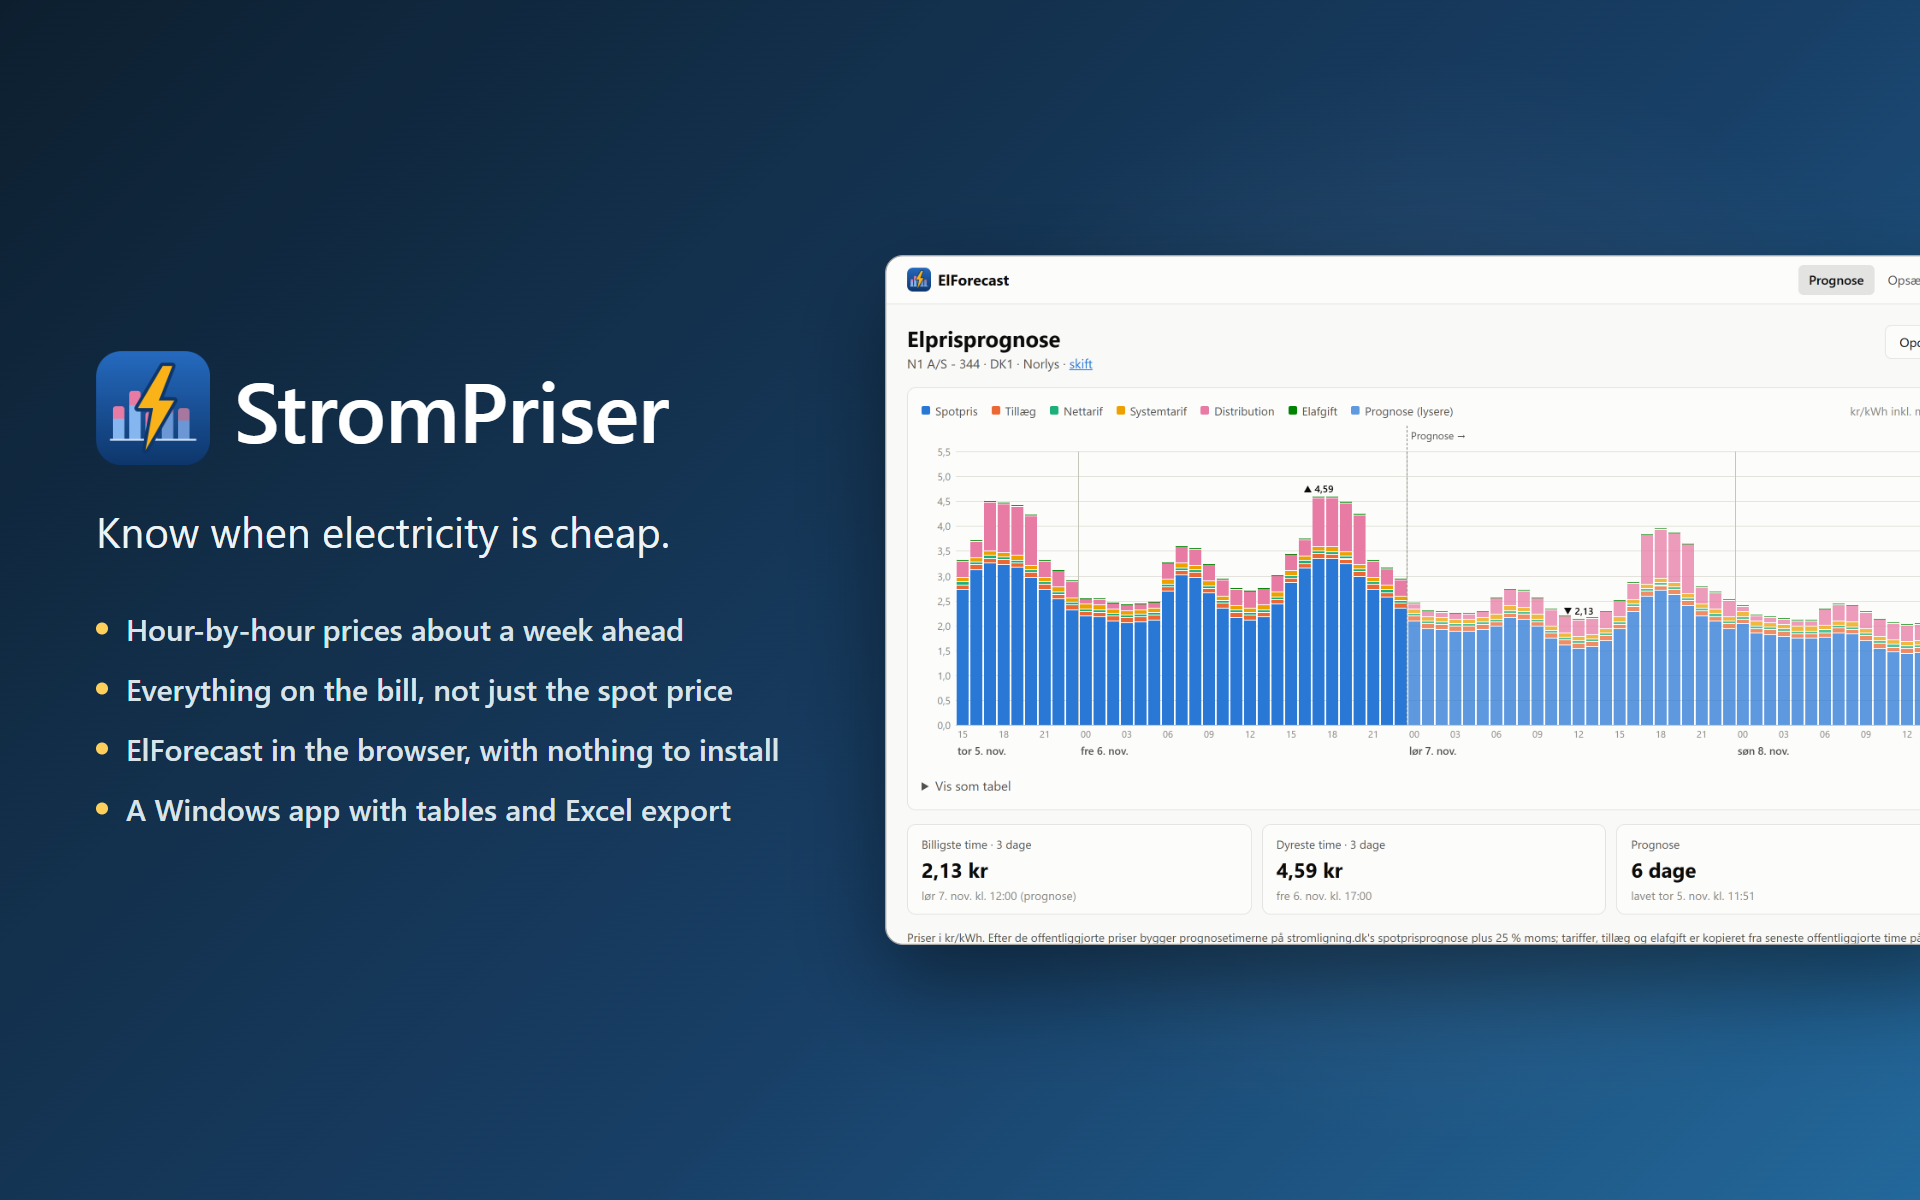
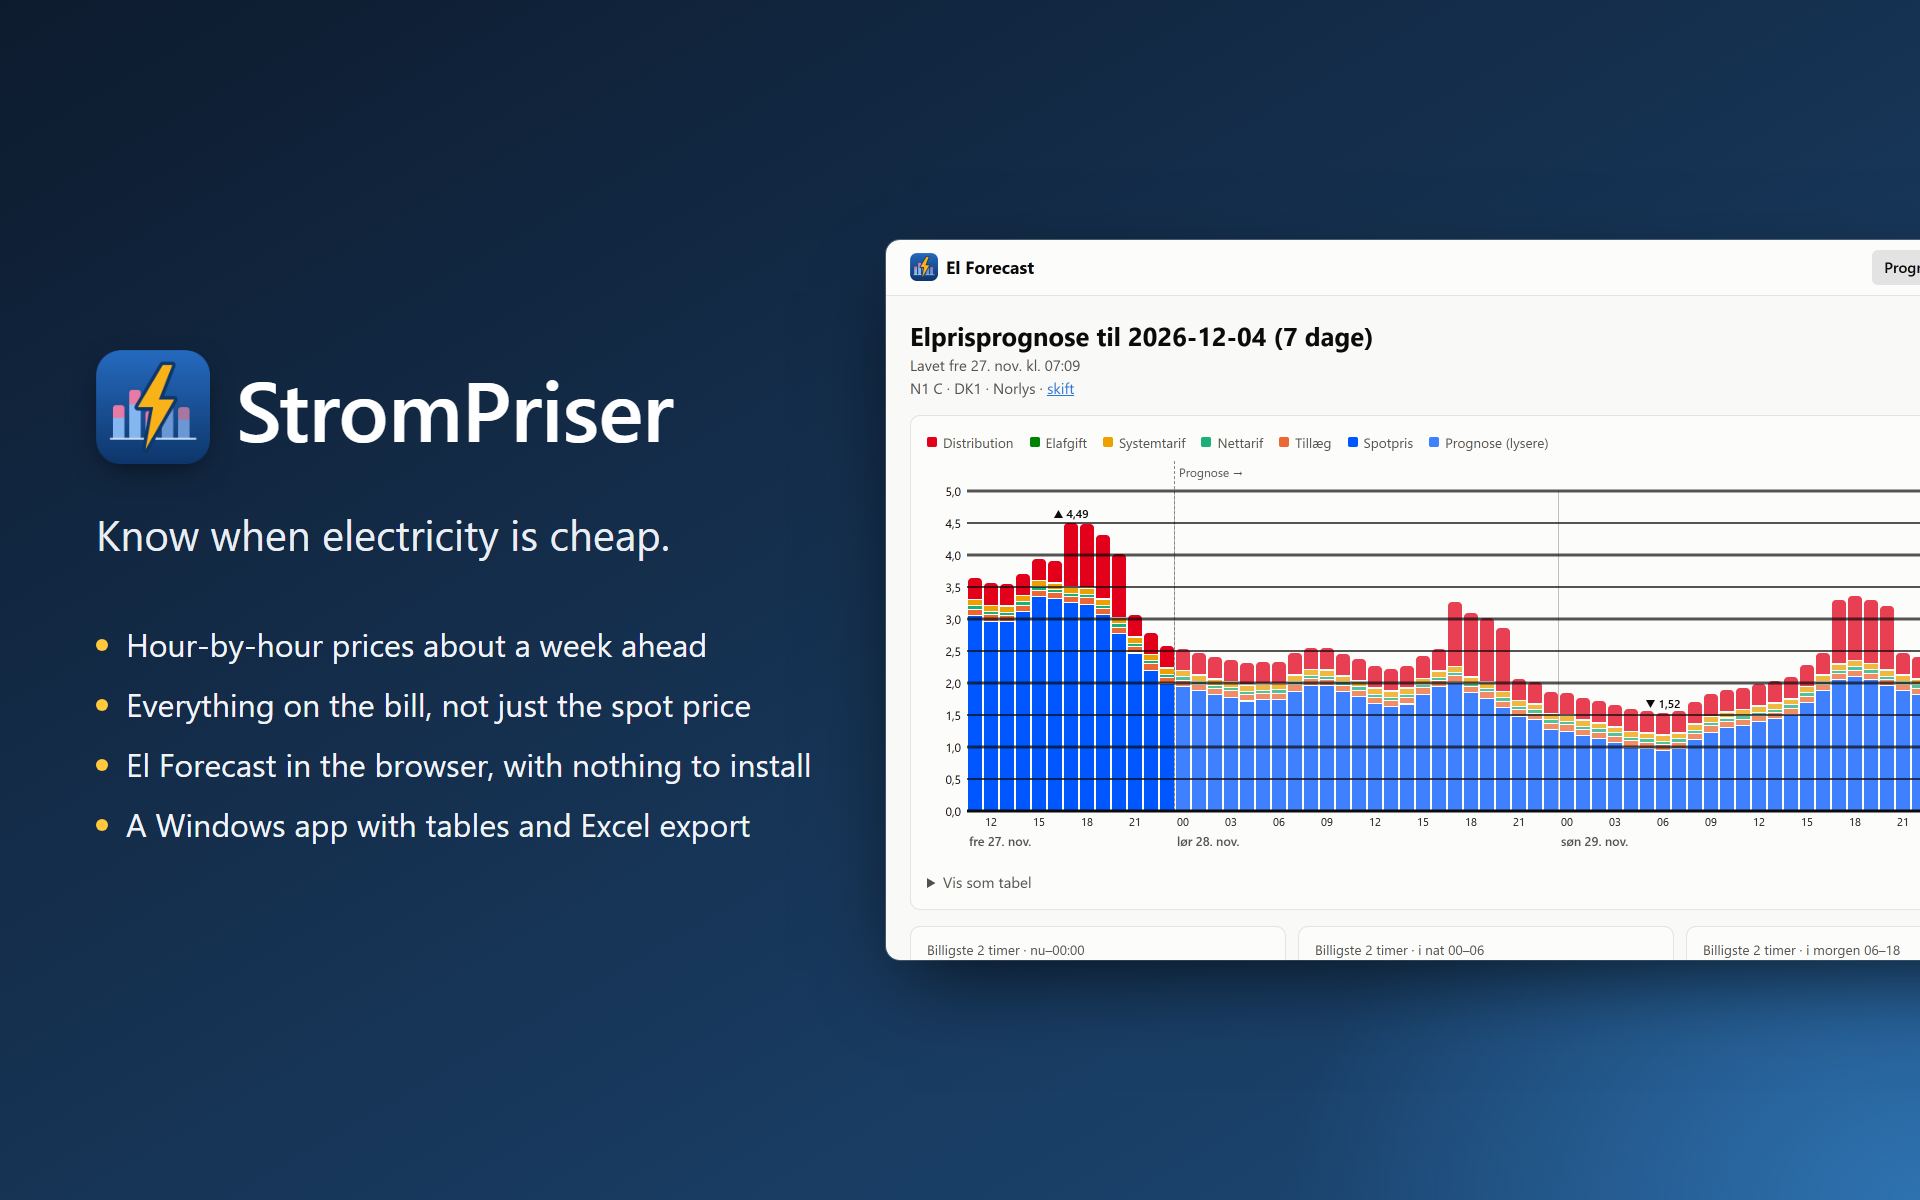
Call the web app El Forecast, in two words, everywhere [skip ci]
The app itself already said El Forecast; the READMEs, the deploy
workflow's name and the README banner and screenshot said ElForecast.
The banner and screenshot are retaken from the live app. Folder and
project names stay ElForecast.

diff --git a/README.md b/README.md
@@ -15,20 +15,20 @@ See what electricity really costs your household, hour by hour, and plan the was
 the dishwasher or the car charging for the cheap hours. Prices include everything on the bill,
 not just the spot price, and they reach about a week ahead.
 
-**Open ElForecast: <https://kreaton.github.io/StromPriser/>**
+**Open El Forecast: <https://kreaton.github.io/StromPriser/>**
 
 All prices come from the free public service at [stromligning.dk](https://stromligning.dk).
 The apps themselves are in Danish.
 
 ## Two ways to use it
 
-| | **ElForecast** – in the browser | **StromPriser** – on Windows |
+| | **El Forecast** – in the browser | **StromPriser** – on Windows |
 |---|---|---|
 | Best for | A quick look at the week ahead, on your phone or computer | Detailed numbers, and saving them to Excel |
 | Shows | A bar chart of every hour for about 8 days | Tables of every period, with the cheapest one highlighted |
 | Install | Nothing, just open the page. It can also be added to your home screen. | A small Windows program |
 
-## ElForecast: the week ahead in the browser
+## El Forecast: the week ahead in the browser
 
 **First time:** choose **Opsætning** and pick:
 
@@ -44,7 +44,7 @@ the forecast opens straight away.
 
 **Reading the chart**
 
-![ElForecast showing a week of hourly prices as stacked bars, with details for one forecast hour](docs/elforecast.jpg)
+![El Forecast showing a week of hourly prices as stacked bars, with details for one forecast hour](docs/elforecast.jpg)
 
 - Each bar is one hour. The taller the bar, the more that hour costs.
 - The colours show what the price is made of. Blue at the bottom is the market price, which
@@ -64,7 +64,7 @@ fresh numbers.
 
 ## StromPriser: the Windows app
 
-Pick your companies in the four drop-downs, just like in ElForecast, and press
+Pick your companies in the four drop-downs, just like in El Forecast, and press
 **Hent priser**. You get:
 
 - a summary with the cheapest and the most expensive period and how much you save by moving

diff --git a/ElForecast/README.md b/ElForecast/README.md
@@ -1,9 +1,9 @@
-# ElForecast
+# El Forecast
 
 A Blazor WebAssembly app (.NET 10) that shows Danish household electricity prices hour by
 hour for about a week ahead. It uses published prices where they exist and the
 stromligning.dk spot price forecast for the rest. The UI is in Danish; how to use it is
-described in the [main README](../README.md#elforecast-the-week-ahead-in-the-browser).
+described in the [main README](../README.md#el-forecast-the-week-ahead-in-the-browser).
 
 It is built on the [`Stromligning`](../Stromligning/README.md) library, the same library the
 StromPriser WinForms app uses. The library runs unchanged in the browser: the API sends

diff --git a/StromPriser/README.md b/StromPriser/README.md
@@ -30,7 +30,7 @@ for win-x64, packs it with [Velopack](https://velopack.io) and uploads a GitHub 
   without uploading (needs `dotnet tool install -g vpk --version 1.3.39-g8d2844f`).
 - **Updating**: *Søg efter opdatering* checks the GitHub releases and installs a newer version,
   then restarts. It only works in a copy installed with Setup.exe.
-- **Icon**: `app.ico` is drawn by `tools/make-icons.ps1`, the same artwork as ElForecast.
+- **Icon**: `app.ico` is drawn by `tools/make-icons.ps1`, the same artwork as El Forecast.
 
 ## Controls
 

diff --git a/Stromligning/README.md b/Stromligning/README.md
@@ -7,7 +7,7 @@ save the result as CSV or JSON.
 
 It has no UI or Windows dependencies (plain `net10.0`), so it works from a console tool, a
 web API, a background service, a desktop app or the browser (Blazor WebAssembly). The
-[StromPriser](../StromPriser/README.md) WinForms app and the [ElForecast](../ElForecast/README.md) Blazor app
+[StromPriser](../StromPriser/README.md) WinForms app and the [El Forecast](../ElForecast/README.md) Blazor app
 in this repository both use it.
 
 ## Quick start
